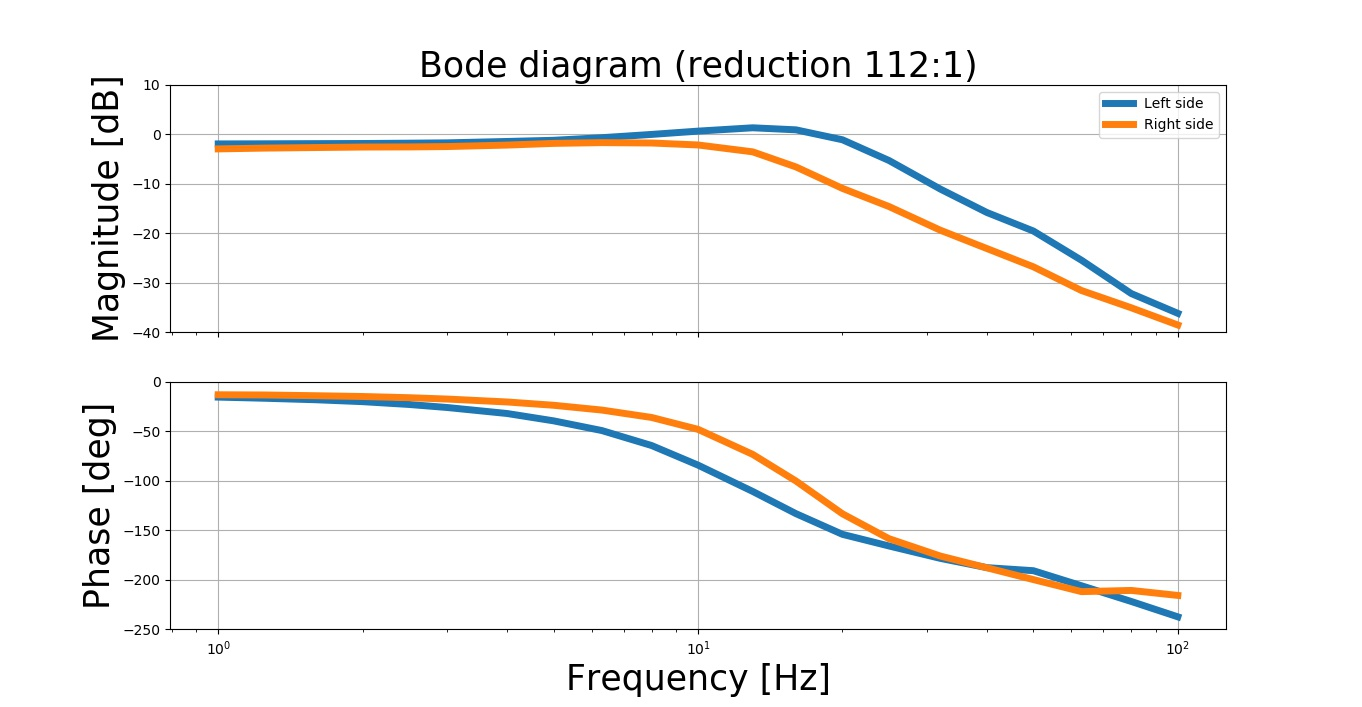
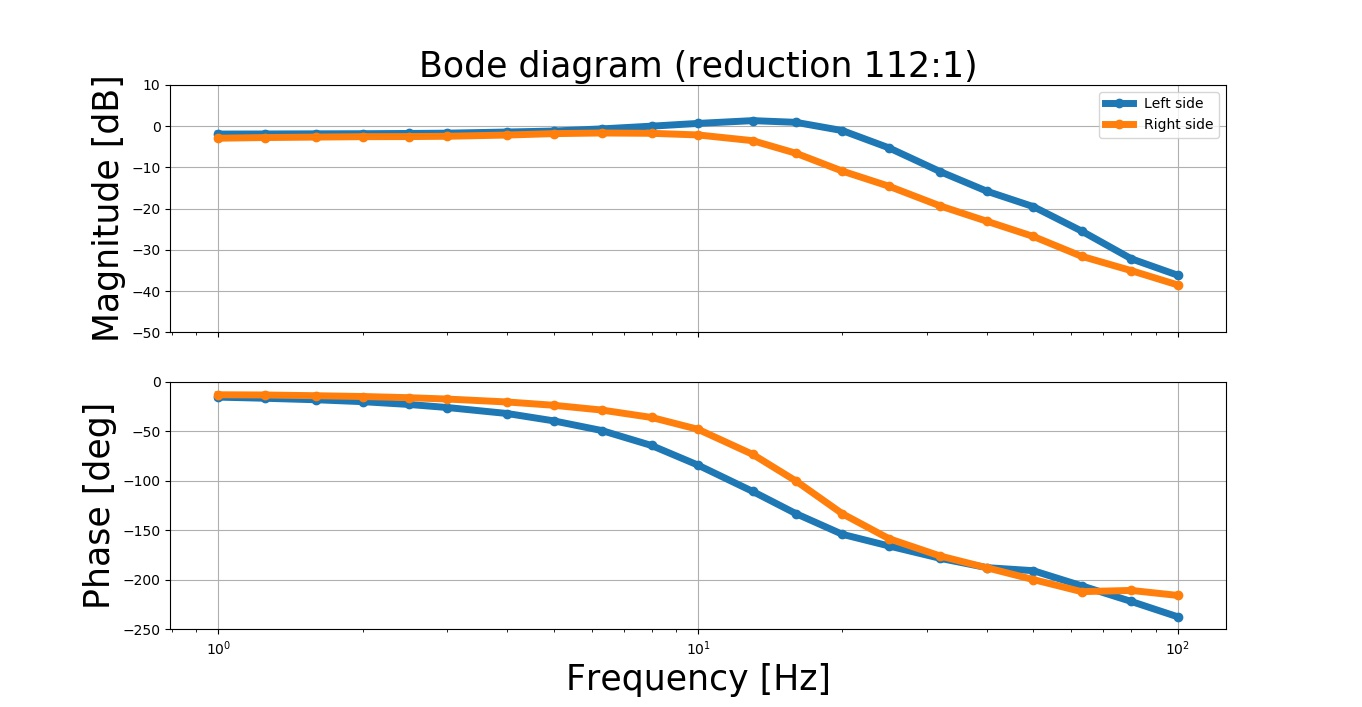
make dotted bode plots

Changed region(s): [[0.1542, 0.1556, 0.8943, 0.4668], [0.0925, 0.2178, 0.1233, 0.3734], [0.0925, 0.4045, 0.1233, 0.4356]]

diff --git a/Python - data analysis/Frequency response analysis/freq_resp_analysis.py b/Python - data analysis/Frequency response analysis/freq_resp_analysis.py
@@ -71,26 +71,30 @@ freq_vec = []
 for file in os.listdir(directory):
     if SHORT_CUT:  # TODO change this, if you want to skip all the calculation
         freq_vec = [1.25, 1.6, 100, 10, 12.6, 16, 1, 2.5, 20, 25, 2, 3.17, 32, 40, 4, 50, 5, 6.3, 63, 80, 8]
-        amplitude_factor_l = [0.799416733637432, 0.7667896860730155, 0.012930064410057712, 0.886163035116494, 1.0539028385379,
-         1.2553631309178375, 0.5485228643133256, 0.7271570486558785, 1.771153301552638, 1.856629836828452,
-         0.7439990041010173, 0.6412328551388515, 0.7292668132466229, 0.292789276593969, 0.7200959231023342,
-         0.13790529873693017, 0.7095685244613104, 0.7570767881147411, 0.046083133320888814, 0.020626216575329728,
-         0.8310095848858013]
-        phasediff_l = [-38.73605806634963, 322.27688815427564, 141.2832868116251, 316.9674472063448, -48.30048922131183,
-         -53.82007663793567, -46.70505454015385, -36.02871569579703, 290.28791270901047, -124.77746184126329,
-         -36.69452298585763, 194.02660778501553, -35.750205152770576, 181.66746379481447, -36.28048704476845,
-         168.57983107747438, -35.798979376740064, -36.53137677809737, -186.65793332798125, 159.29019034277394,
-         -39.06967028129457]
-        amplitude_factor_r = [0.2913556996266289, 0.3096982159230326, 0.014606541602101645, 0.8503446629663008, 0.9562814545013333,
-         1.1574294953732818, 0.3220837174229254, 0.33733945716963754, 1.0244325827379919, 0.48118717811179557,
-         0.31167869598626446, 0.1910562823299711, 0.36446981176005694, 0.09697678207816754, 0.4446438318738223,
-         0.0615489355912634, 0.5230474529728547, 0.6720231215290386, 0.03229312280229192, 0.020666015650535798,
-         0.7811466935221499]
-        phasediff_r = [-50.73738070012698, 312.74455751738947, 170.38153669967616, 303.5522315882305, -66.88179082887815,
-         -83.94810903112638, -53.391872377582885, -45.164573041818784, 243.8948273139621, -137.27304754162802,
-         -46.73796014714254, -152.52390717466915, -44.38626992981787, 200.56535438211046, -44.08052174199274,
-         197.1874797322331, -44.67904944711185, -45.772155134937464, -176.5715555408445, 175.4637481769663,
-         -51.73629979887709]
+        amplitude_factor_l = [0.7601896652627596, 0.744343848109167, 0.007951997355989955, 0.8550712064038017,
+                              0.9661471221820586, 1.1336734397483565, 0.7750527091865916, 0.7045265998811632,
+                              1.5910843452341281, 2.232869271026134, 0.7238940008521587, 1.1701038845395058,
+                              0.6933593325946599, 0.45486120775583777, 0.6934159970289575, 0.17023098271826864,
+                              0.7028216272421962, 0.719649955213483, 0.07137902432654318, 0.02015130350108083,
+                              0.7692242649389266]
+        phasediff_l = [-31.70998717394236, -30.997229961071668, 178.71648406608347, -38.9593250415772,
+                       -40.71144281092042, -44.773124817912084, -33.68977306592595, -28.780400415112638,
+                       -56.23587584823737, -105.48693487751852, -30.092770250653615, 200.42078921821667,
+                       -28.243049588774838, 178.61588021261676, -26.85340089109842, -209.41666148132595,
+                       -26.5848015560761, -26.700004175701906, 143.85613219256902, -214.36946988114835,
+                       -27.907238612122665]
+        amplitude_factor_r = [0.5689989395716576, 0.5617325101772804, 0.007776265258003794, 0.8029992123311501,
+                              0.9464257370896573, 1.1526341426969926, 0.5785204419285449, 0.5532277313962409,
+                              1.3447645633183067, 0.8824941058460577, 0.5614300301366614, 0.3641910481977869,
+                              0.559547748476853, 0.15015302509012513, 0.5775600081766765, 0.06253738840283483,
+                              0.6203363631335826, 0.7162023153846844, 0.030795999786399905, 0.01799758810505321,
+                              0.8649445483391283]
+        phasediff_r = [-37.92212835769355, -35.92458858071234, 170.56374297883235, -53.33463407055997,
+                       -58.99421538328227, -69.60421091852015, -39.68418166137866, -33.94187467637505,
+                       -98.4018128491575, -137.08806777246366, -35.02207449587998, 200.3900476873477,
+                       -32.65067485764229, 191.89839514220412, -31.894944065586596, -170.6386923024231,
+                       -32.63408572631705, -34.7105469868994, -175.79833248234146, -191.51265666131337,
+                       -38.095308266568296]
 
         freq_vec = [1.25, 1.6, 100.0, 10.0, 13.0, 16.0, 1.0, 2.5, 20.0, 25.0, 2.0, 32.0, 3.0, 40.0, 4.0, 50.0, 5.0, 6.3, 63.0,
          80.0, 8.0]
@@ -196,15 +200,15 @@ amplitude_factor_r = 20 * np.log10(amplitude_factor_r)
 
 
 left_bode, axarr_l = plt.subplots(2, sharex=True)
-left_lines = axarr_l[0].semilogx([freq_vec[x] for x in indices], [amplitude_factor_l[x] for x in indices], linewidth=5.0, label='Left side')
+left_lines = axarr_l[0].semilogx([freq_vec[x] for x in indices], [amplitude_factor_l[x] for x in indices], 'o-', linewidth=5.0, label='Left side')
 axarr_l[0].set_title('Bode diagram - left side (reduction 112:1)', fontsize=25)
 """
-right_lines = axarr_l[0].semilogx([freq_vec[x] for x in indices], [amplitude_factor_r[x] for x in indices], linewidth=5.0, label='Right side')
+right_lines = axarr_l[0].semilogx([freq_vec[x] for x in indices], [amplitude_factor_r[x] for x in indices], 'o-', linewidth=5.0, label='Right side')
 axarr_l[0].legend()
-axarr_l[1].semilogx([freq_vec[x] for x in indices], [phasediff_r[x] if phasediff_r[x] < 0 else phasediff_r[x] - 360 for x in indices], linewidth=5.0, label='Right side')
+axarr_l[1].semilogx([freq_vec[x] for x in indices], [phasediff_r[x] if phasediff_r[x] < 0 else phasediff_r[x] - 360 for x in indices], 'o-', linewidth=5.0, label='Right side')
 axarr_l[0].set_title('Bode diagram (reduction 112:1)', fontsize=25)
 #"""
-axarr_l[1].semilogx([freq_vec[x] for x in indices], [phasediff_l[x] if phasediff_l[x] < 0 else phasediff_l[x] - 360 for x in indices], linewidth=5.0, label='Left side')
+axarr_l[1].semilogx([freq_vec[x] for x in indices], [phasediff_l[x] if phasediff_l[x] < 0 else phasediff_l[x] - 360 for x in indices], 'o-', linewidth=5.0, label='Left side')
 #axarr_l[1].semilogx([freq_vec[x] for x in indices], [phasediff_l[x]  for x in indices])
 axarr_l[1].set_xlabel('Frequency [Hz]', fontsize=25)
 axarr_l[0].set_ylabel('Magnitude [dB]', fontsize=25)
@@ -224,9 +228,9 @@ plt.show()
 left_bode.savefig(figure_directory + '/bode_left.jpg')
 
 right_bode, axarr_r = plt.subplots(2, sharex=True)
-axarr_r[0].semilogx([freq_vec[x] for x in indices], [amplitude_factor_r[x] for x in indices], linewidth=5.0)
+axarr_r[0].semilogx([freq_vec[x] for x in indices], [amplitude_factor_r[x] for x in indices], 'o-', linewidth=5.0)
 axarr_r[0].set_title('Bode diagram - right side (reduction 112:1)', fontsize=25)
-axarr_r[1].semilogx([freq_vec[x] for x in indices], [phasediff_r[x] if phasediff_r[x] < 0 else phasediff_r[x] - 360 for x in indices], linewidth=5.0)
+axarr_r[1].semilogx([freq_vec[x] for x in indices], [phasediff_r[x] if phasediff_r[x] < 0 else phasediff_r[x] - 360 for x in indices], 'o-', linewidth=5.0)
 #axarr_r[1].semilogx([freq_vec[x] for x in indices], [phasediff_r[x] for x in indices])
 axarr_r[1].set_xlabel('Frequency [Hz]', fontsize=25)
 axarr_r[0].set_ylabel('Magnitude [dB]', fontsize=25)
